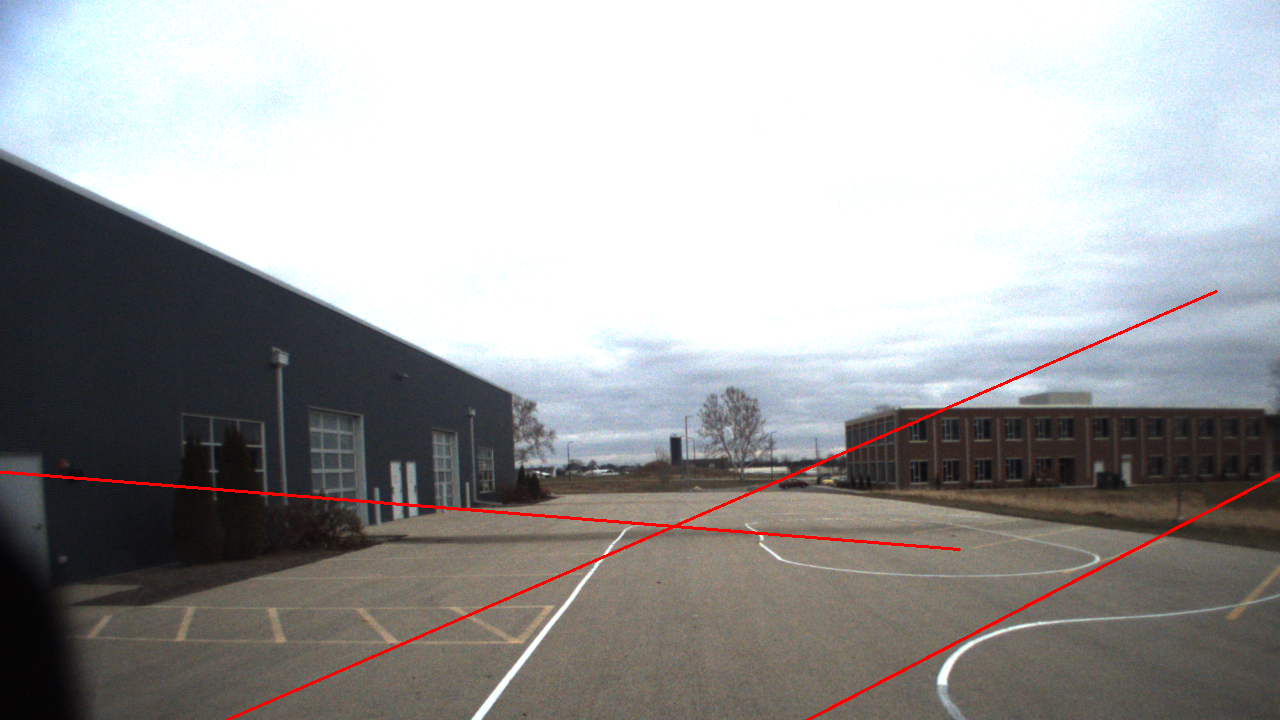
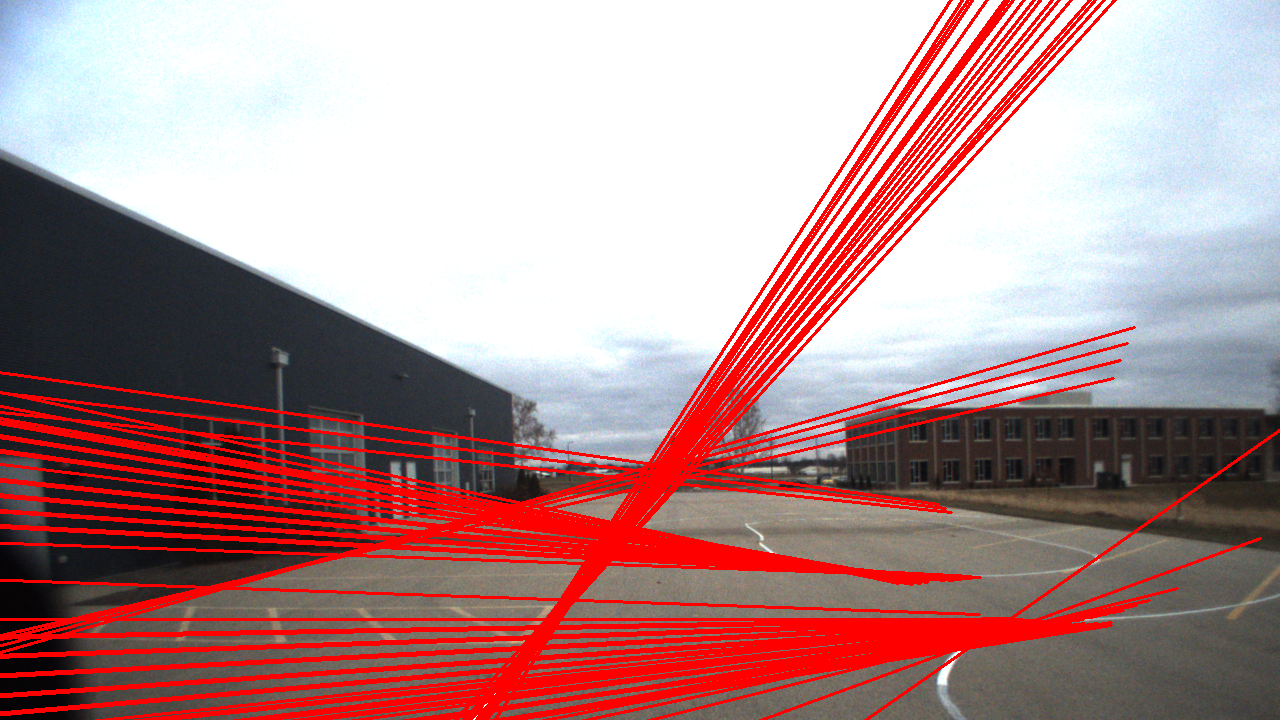
Update hough lane detector

diff --git a/scripts/hough_lane_detector.py b/scripts/hough_lane_detector.py
@@ -3,125 +3,140 @@ import os
 import numpy as np
 from base_detector import Detector
 
-
-class HoughDetector(Detector):
-    def __init__(self, out_dir) -> None:
-        super().__init__()
-        self.canny_lthreshold = 150
-        self.canny_hthreshold = 250
-        self.rho = 1
-        self.theta = np.pi/180
-        self.threshold = 40
-        self.min_line_length = 150
-        self.max_line_gap = 50
-        self.out_dir = out_dir
-        self.image_name = None
-        
-    def preprocess(self, img):
-        return cv2.resize(img, (1280, 720))
-        
-        
-    def _detect_edge(self, img):
-        gray = cv2.cvtColor(img, cv2.COLOR_RGB2GRAY)
-        edges = cv2.Canny(gray, self.canny_lthreshold, self.canny_hthreshold)
-        cv2.imwrite(os.path.join(self.out_dir, "edges", self.image_name), edges)
-        return edges
-
-    def _roi_mask(self, img, vertics):
-        mask = np.zeros_like(img)
-        if len(img.shape) > 2:
-            channel_count = img.shape[2]
-            mask_color = (255,) * channel_count
-        else:
-            mask_color = 255
-        cv2.fillPoly(mask, [vertics], mask_color)
-        masked_img = cv2.bitwise_and(img, mask)
-        return masked_img
-    
-    def _get_roi_image(self, img):
-        left_bottom = [0, img.shape[0]]
-        right_bottom = [img.shape[1], img.shape[0]]
-        left_top = [0, 500]
-        right_top = [img.shape[1], 500]
-        # apex = [img.shape[1]/2, 500]
-        vertices = np.array([left_bottom, right_bottom, right_top, left_top], np.int32)
-        roi_image = self._roi_mask(img, vertices)
-        cv2.imwrite(os.path.join(self.out_dir, "roi", self.image_name), roi_image)
-        return roi_image
-
-    def cluster(self, lines):
-        rho_threshold = 150
-        theta_threshold = 1
-        cluster_dict = {}    
-        for [[rho, theta]] in lines:
-            # print(rho, theta)
-            flag = False
-            for k in cluster_dict.keys():
-                if abs(cluster_dict[k][0][0] - rho) < rho_threshold \
-                and abs(cluster_dict[k][0][1] - theta) < theta_threshold:
-                    cluster_dict[k][1].append((rho, theta))
-                    cluster_dict[k][0] = np.mean(cluster_dict[k][1], axis=0)
-                    flag = True
-                    break
-            if flag == False:
-                cluster_dict[len(cluster_dict)] = [(rho, theta), [(rho, theta)]]
-                
-        return cluster_dict
-    
-    def _get_lines(self, roi_image):
-        lines = cv2.HoughLines(roi_image, self.rho, self.theta, self.threshold, self.min_line_length, self.max_line_gap)
-        lines_dict = self.cluster(lines)
-        clustered_lines = []
-        for k in lines_dict.keys():
-            clustered_lines.append(lines_dict[k][0])
-        return clustered_lines
-    
-    def draw_lines(self, img, lines, color = [0, 0, 255], thickness = 2):
-        for rho, theta in lines:
-            a = np.cos(theta)
-            b = np.sin(theta)
-            x0 = a*rho
-            y0 = b*rho
-            x1 = int(x0 + 1000*(-b))
-            y1 = int(y0 + 1000*(a))
-            x2 = int(x0 - 1000*(-b))
-            y2 = int(y0 - 1000*(a))
-            img = cv2.line(img,(x1,y1),(x2,y2),(0,0,255),2)
-        cv2.imwrite(os.path.join(self.out_dir, "out", self.image_name), img)
-
-    
-    def process_image(self, img, image_name):
-        self.image_name = image_name
-        edges = self._detect_edge(img)
-        roi_image = self._get_roi_image(edges)
-        lines  = self._get_lines(roi_image)
-        if len(lines) != 0:
-            self.draw_lines(img, lines)
-        return lines
-        
 def empty_dir(dir_path):
     for f in os.listdir(dir_path):
         file_path = os.path.join(dir_path, f)
         if os.path.isfile(file_path):
             os.remove(file_path)
 
+class HoughDetector(Detector):
+    def __init__(self) -> None:
+        super().__init__()
+        self.canny_lthreshold = 150
+        self.canny_hthreshold = 250
+        self.rho = 1
+        self.theta = np.pi/180
+        self.threshold = 40
+        self.min_line_length = 120
+        self.max_line_gap = 50
+        self.image_size = (1280, 720)
+        self.mask_level = 520
+
+        self.image_name = None
+        self.origin_image = None
+        self.edges_image = None
+        self.masked_edges_image = None
+        self.output_image = None
+        
+        self.out_dir = "../outputs"
+        for dir in os.listdir(self.out_dir):
+            if os.path.isdir(os.path.join(self.out_dir, dir)):
+                empty_dir(os.path.join(self.out_dir, dir))
+        
+    def _preprocess(self):
+        # Resize image
+        self.origin_image = cv2.resize(self.origin_image, self.image_size)
+        
+    def _detect_edge(self):
+        # Canny edge detection
+        gray = cv2.cvtColor(self.origin_image, cv2.COLOR_RGB2GRAY)
+        self.edges_image = cv2.Canny(gray, self.canny_lthreshold, self.canny_hthreshold)
+
+    def _mask(self, vertics):
+        # Make a square mask to make the detector focus on the road area
+        mask = np.zeros_like(self.edges_image)
+        mask_color = 255
+        cv2.fillPoly(mask, [vertics], mask_color)
+        return mask
+    
+    def _get_masked_image(self):
+        # Filter the image with a square mask
+        left_bottom = [0, self.image_size[1]]
+        right_bottom = [self.image_size[0], self.image_size[1]]
+        left_top = [0, self.mask_level]
+        right_top = [self.image_size[0], self.mask_level]
+        # apex = [self.image_size[1]/2, 500]
+        vertices = np.array([left_bottom, right_bottom, right_top, left_top], np.int32)
+        mask = self._mask(vertices)
+        self.masked_edges_image = cv2.bitwise_and(self.edges_image, mask)
+        
+    def _cluster(self, lines):
+            """
+            There are often multiple lines for a single lane detected by the hough 
+            detector. We need to find out with lines are actually the same lane.
+            We do this with clustering
+            """
+            rho_threshold = 150
+            theta_threshold = 1
+            cluster_dict = {}    
+            for [[rho, theta]] in lines:
+                # print(rho, theta)
+                flag = False
+                for k in cluster_dict.keys():
+                    if abs(cluster_dict[k][0][0] - rho) < rho_threshold \
+                    and abs(cluster_dict[k][0][1] - theta) < theta_threshold:
+                        cluster_dict[k][1].append((rho, theta))
+                        cluster_dict[k][0] = np.mean(cluster_dict[k][1], axis=0)
+                        flag = True
+                        break
+                if flag == False:
+                    cluster_dict[len(cluster_dict)] = [(rho, theta), [(rho, theta)]]
+                    
+            return cluster_dict
+        
+    def _get_lines(self):
+        # Do hough detection on the masked edges
+        lines = cv2.HoughLines(self.masked_edges_image, self.rho, self.theta, self.threshold, self.min_line_length, self.max_line_gap)
+        # lines_dict = self._cluster(lines)
+        # clustered_lines = []
+        # for k in lines_dict.keys():
+        #     clustered_lines.append(lines_dict[k][0])
+        # return clustered_lines
+        return lines
+    
+    def _draw_lines(self, lines):
+        if len(lines) != 0:
+            # for rho, theta in lines:
+            for [[rho, theta]] in lines:
+                a = np.cos(theta)
+                b = np.sin(theta)
+                x0 = a * rho
+                y0 = b * rho
+                x1 = int(x0 + 1000*(-b))
+                y1 = int(y0 + 1000*(a))
+                x2 = int(x0 - 1000*(-b))
+                y2 = int(y0 - 1000*(a))
+                self.output_image = cv2.line(self.origin_image,(x1,y1),(x2,y2),(0,0,255),2)
+        else:
+            print("No lanes detected in image ", self.image_name)
+        
+    def save_images(self):
+        # To see if it works
+        cv2.imwrite(os.path.join(self.out_dir, "edges", self.image_name), self.edges_image)
+        cv2.imwrite(os.path.join(self.out_dir, "mask", self.image_name), self.masked_edges_image)
+        cv2.imwrite(os.path.join(self.out_dir, "out", self.image_name), self.output_image)
+
+    def process_image(self, image, image_name):
+        # This is function you should call
+        self.image_name = image_name
+        self.origin_image = image
+        self._preprocess()
+        self._detect_edge()
+        self._get_masked_image()
+        lines = self._get_lines()
+        self._draw_lines(lines)
+        
+        return self.output_image
+    
 def main():
     input_dir_path = "../inputs"
-    output_dir_path = "../outputs"
-    for dir in os.listdir(output_dir_path):
-        if os.path.isdir(os.path.join(output_dir_path, dir)):
-            empty_dir(os.path.join(output_dir_path, dir))
-    my_detector = HoughDetector(output_dir_path)
+    my_detector = HoughDetector()
     for img_path in os.listdir(input_dir_path):
         if ".png" in img_path:
+            print("------", img_path, "------")
             image = cv2.imread(os.path.join(input_dir_path, img_path))
-            image = my_detector.preprocess(image)
             my_detector.process_image(image, img_path)
-    
-    # input_image_path = "../inputs/13.png"
-    # image = cv2.imread(input_image_path)
-    # image = my_detector.preprocess(image)
-    # lines = my_detector.process_image(image, "13.png")
+            my_detector.save_images()
     
 if __name__ == "__main__":
     main()

diff --git a/scripts/control.py b/scripts/control.py
@@ -1,3 +1,5 @@
+# The mathematical formula is from the paper 汽车偏离车道线的图像分析与视觉计算方法 by MAO Yuxing, etc
+
 import numpy as np
 
 class Controller:
